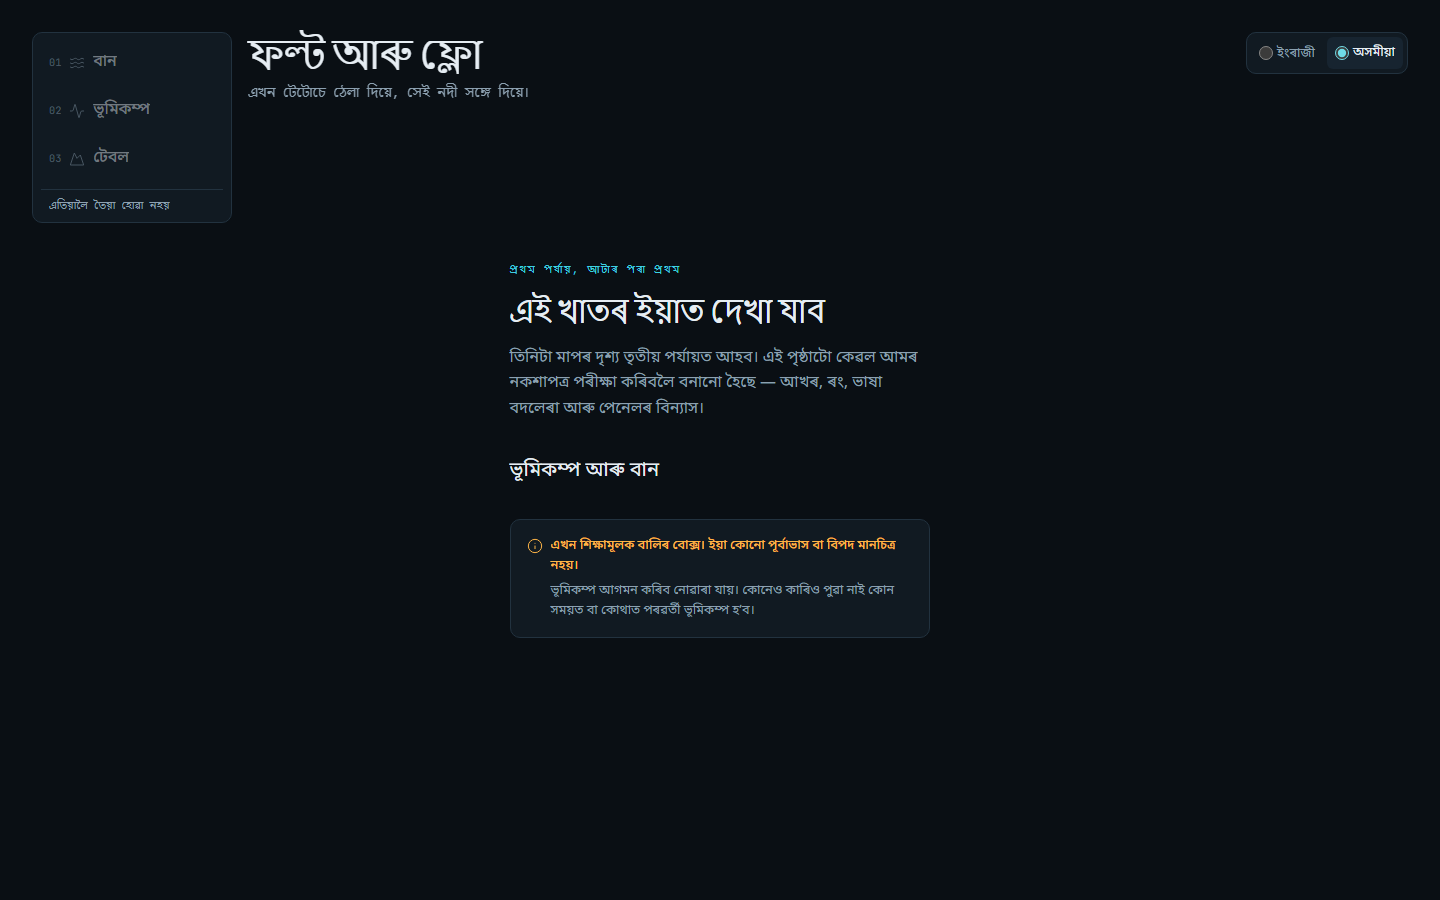
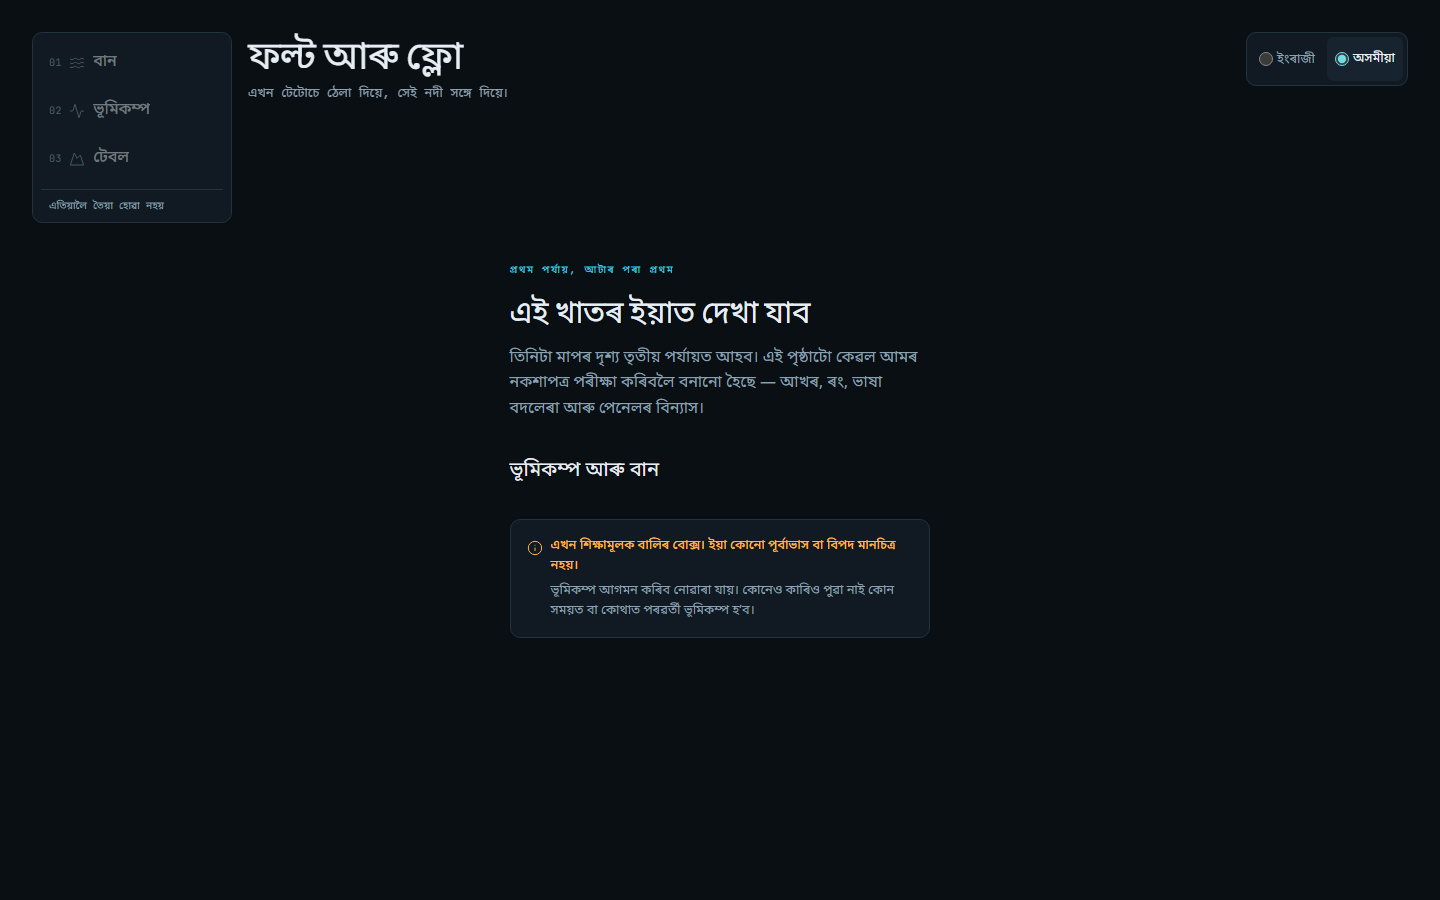
fix(ui): clear findings from the interface-quality review
Ran the design-system audit at 1440px and 390px and fixed what it found:

- The language radios had a 14px hit area, below the 24px floor in WCAG 2.2
  SC 2.5.8 and below the 44px this repo's own DESIGN.md sets. The wrapping
  label is the real target, so it now clears 44px.
- Tailwind's blanket transition-colors on the toggle animated fill, stroke and
  gradient custom properties the component never changes. Narrowed to
  background-color, so animated properties match DESIGN.md section 3.
- A raw mt-[2px] nudged the disclaimer icon onto the text cap height. Now a
  space token, so spacing is off the raw-px list entirely.

Add scripts/review.mjs, the harness that produced these numbers: distinct
font-size/family/radius/shadow/colour counts, off-grid spacing, touch
targets, and console errors. It excludes gap:normal and the sr-only -1px
margins from the spacing check, because a check that cries wolf gets ignored.

After the fixes: 6 font sizes (one 1.25 ratio), 4 font families (the 4
intended), 2 radii, 0 shadows, 4 text colours, no off-grid spacing, no target
under 24px, no console errors.

diff --git a/src/ui/LangToggle.tsx b/src/ui/LangToggle.tsx
@@ -32,7 +32,13 @@ export default function LangToggle() {
           return (
             <label
               key={code}
-              className="flex min-h-[32px] cursor-pointer items-center gap-[var(--space-2xs)] rounded-[var(--radius-sm)] px-[var(--space-xs)] text-[length:var(--step--1)] transition-colors duration-150 ease-[cubic-bezier(0.22,1,0.36,1)] hover:bg-[color:var(--surface-raised)] has-[:focus-visible]:bg-[color:var(--surface-raised)]"
+              // min-h-[44px]: the radio glyph itself is 14px, but the label is
+              // what the user actually clicks, so the LABEL is the target and
+              // it must clear WCAG 2.2 SC 2.5.8 (and our own DESIGN.md 6).
+              // Only background-color animates - not Tailwind's blanket
+              // transition-colors, which would also transition fill, stroke and
+              // gradient custom properties we never change.
+              className="flex min-h-[44px] cursor-pointer items-center gap-[var(--space-2xs)] rounded-[var(--radius-sm)] px-[var(--space-xs)] text-[length:var(--step--1)] transition-[background-color] duration-150 ease-[cubic-bezier(0.22,1,0.36,1)] hover:bg-[color:var(--surface-raised)] has-[:focus-visible]:bg-[color:var(--surface-raised)]"
             >
               <input
                 type="radio"

diff --git a/src/ui/App.tsx b/src/ui/App.tsx
@@ -135,7 +135,9 @@ export default function App() {
             role="note"
           >
             <Info
-              className="mt-[2px] shrink-0 text-[color:var(--seismic-amber)]"
+              // Optical alignment with the first line's cap height, using a
+              // space token rather than a raw 2px nudge.
+              className="mt-[var(--space-2xs)] shrink-0 text-[color:var(--seismic-amber)]"
               size={16}
               strokeWidth={1.5}
               aria-hidden="true"
